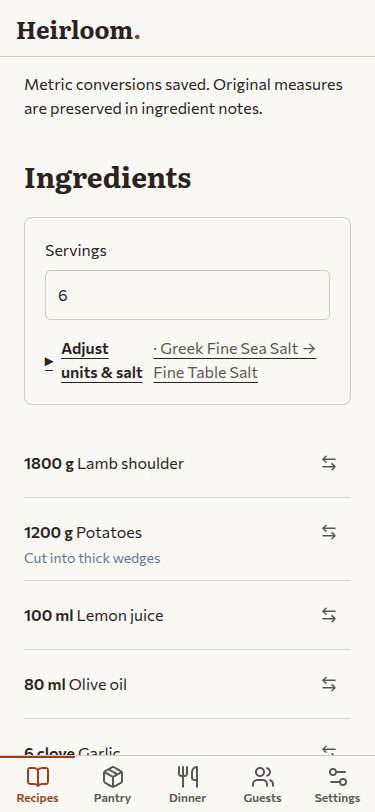
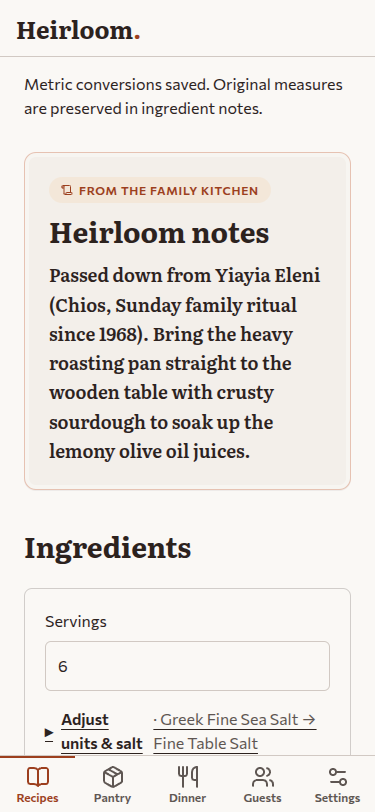
feat(ui): human-first experience for living cookbook, dinner party conductor, and kitchen mode

diff --git a/server/db/starter-recipes.ts b/server/db/starter-recipes.ts
@@ -6,7 +6,7 @@ export const starterRecipes: RecipeInput[] = [
     title: 'Arni me Patates', recipeType: 'food', cuisine: 'Greek', sourceType: 'manual',
     description: 'Main · Sunday lamb shoulder with lemon, oregano and potatoes roasted in the pan juices.',
     servings: 6, prepTimeMinutes: 25, cookTimeMinutes: 180, difficulty: 'easy', originalSaltType: 'greek_fine_sea_salt',
-    heirloomNotes: 'A shared Sunday roast. Bring the roasting pan to the table and pass bread for the lemony juices.',
+    heirloomNotes: 'Passed down from Yiayia Eleni (Chios, Sunday family ritual since 1968). Bring the heavy roasting pan straight to the wooden table with crusty sourdough to soak up the lemony olive oil juices.',
     storageReheating: 'Refrigerate leftovers promptly in shallow containers; reheat covered with a splash of water.',
     ingredients: [
       { name: 'Lamb shoulder', amount: 1800, unit: 'g', category: 'meat' },
@@ -27,7 +27,7 @@ export const starterRecipes: RecipeInput[] = [
     title: 'Traditional Spanakopita', recipeType: 'baking', cuisine: 'Greek', sourceType: 'manual',
     description: 'Appetizer · Hand-rolled phyllo filled with spinach, leeks, dill and barrel-aged feta.',
     servings: 8, prepTimeMinutes: 75, cookTimeMinutes: 50, difficulty: 'advanced', originalSaltType: 'greek_fine_sea_salt',
-    heirloomNotes: 'Advance prep: cook and cool the greens a day ahead, then refrigerate. Make the dough ahead and keep covered; assemble just before baking for a crisp base.',
+    heirloomNotes: 'Handwritten on a flour-dusted index card in 1974. The secret is rolling the phyllo paper-thin with olive oil and wild mountain greens. Squeeze the greens completely dry so the bottom stays crisp as glass.',
     storageReheating: 'Refrigerate cooled slices and reheat uncovered in an oven to restore crispness.',
     ingredients: [
       { name: 'Spinach', amount: 1000, unit: 'g', category: 'produce' }, { name: 'Barrel-aged feta', amount: 300, unit: 'g', category: 'dairy' },
@@ -48,7 +48,7 @@ export const starterRecipes: RecipeInput[] = [
     title: 'Santorini Fava', recipeType: 'food', cuisine: 'Greek', sourceType: 'manual',
     description: 'Side · Silky yellow split-pea purée with red onion, capers and a generous finish of olive oil.',
     servings: 6, prepTimeMinutes: 10, cookTimeMinutes: 50, difficulty: 'easy', originalSaltType: 'greek_fine_sea_salt',
-    heirloomNotes: 'Use Santorini yellow split peas when available. Greek fava names the purée, not broad beans. Serve warm or at room temperature as part of a meze table.',
+    heirloomNotes: 'From the volcanic terraces of Santorini. Not broad beans, but yellow split peas simmered until they collapse into velvety silk. Serve lukewarm with sweet red onion and capers on a warm summer evening.',
     storageReheating: 'Refrigerate promptly. Loosen with hot water when reheating; the purée thickens as it cools.',
     ingredients: [
       { name: 'Yellow split peas', amount: 300, unit: 'g' }, { name: 'Red onions', amount: 200, unit: 'g', notes: 'Half for cooking, half finely sliced for serving' },
@@ -67,7 +67,7 @@ export const starterRecipes: RecipeInput[] = [
     title: 'Classic Fasolada', recipeType: 'food', cuisine: 'Greek', sourceType: 'manual',
     description: 'Main · White bean soup with celery, carrots, tomato passata and olive oil. Start the beans the night before.',
     servings: 6, prepTimeMinutes: 20, cookTimeMinutes: 100, totalTimeMinutes: 840, difficulty: 'easy', originalSaltType: 'greek_fine_sea_salt',
-    heirloomNotes: 'Overnight schedule: soak beans in plenty of cold water in the refrigerator for 12 hours. The following day allow about two hours for preparation and cooking; older beans may take longer.',
+    heirloomNotes: 'The national comfort dish of Greece, cooked every winter Monday in our family home. The beans must soak slowly overnight; take your time simmering until the olive oil emulsions form a rich, golden-rust broth.',
     storageReheating: 'Cool in shallow containers and refrigerate promptly. Reheat with extra water as the beans absorb broth.',
     ingredients: [
       { name: 'Dried white beans', amount: 500, unit: 'g' }, { name: 'Celery', amount: 150, unit: 'g' },
@@ -87,7 +87,7 @@ export const starterRecipes: RecipeInput[] = [
     title: 'Revani with Citrus Syrup', recipeType: 'dessert', cuisine: 'Greek', sourceType: 'manual',
     description: 'Dessert · Golden semolina and yogurt cake scented with orange, soaked with cooled citrus syrup.',
     servings: 12, prepTimeMinutes: 25, cookTimeMinutes: 40, difficulty: 'intermediate', originalSaltType: 'greek_fine_sea_salt',
-    heirloomNotes: 'Make the syrup first so it can cool while the cake bakes. Allow the soaked cake to rest for at least two hours before serving small squares.',
+    heirloomNotes: 'A celebration cake from Veroia, baked for name days and Sunday afternoons. Ladle the cool orange syrup slowly over the piping hot semolina cake and let it rest until every grain glistens.',
     storageReheating: 'Cover and refrigerate after cooling. Bring individual portions toward room temperature before serving.',
     ingredients: [
       { name: 'Fine semolina', amount: 200, unit: 'g', notes: 'Wheat semolina' }, { name: 'Wheat flour', amount: 100, unit: 'g' },

diff --git a/app/pages/meal-plan/index.vue b/app/pages/meal-plan/index.vue
@@ -367,7 +367,7 @@ async function conduct() {
           v-stable-action="state"
           :data-state="state"
           :aria-busy="busy"
-        >{{ label('Build the schedule', 'Conducting…') }}</button>
+        >{{ label('Plan our dinner', 'Planning our dinner…') }}</button>
       </div>
     </form>
     </template>
@@ -387,14 +387,18 @@ async function conduct() {
           </li>
         </ul>
       </section>
-      <section v-if="plan.bottlenecks.length" aria-label="Equipment conflicts" class="space-y-4">
-        <h2 class="text-2xl">Conductor insights &amp; workarounds</h2>
-        <article v-for="item in plan.bottlenecks" :key="item.type + item.start" role="alert" class="overflow-hidden rounded-xl border border-terracotta/40 bg-paper">
-          <header class="flex items-start gap-3 bg-terracotta/10 px-5 py-4">
-            <span class="inline-flex size-10 flex-none items-center justify-center rounded-full bg-paper text-terracotta-ink" aria-hidden="true"><UIcon :name="item.type === 'oven_temperature' ? 'i-lucide-heater' : 'i-lucide-flame'" class="size-5" /></span>
+      <details v-if="plan.bottlenecks.length" aria-label="Kitchen timing and equipment advisory" class="advisory group rounded-xl border border-sage/40 bg-paper-2 p-5">
+        <summary class="flex cursor-pointer select-none items-center justify-between gap-3 font-serif text-xl">
+          <span class="flex min-w-0 items-center gap-3"><UIcon name="i-lucide-lightbulb" class="size-5 flex-none text-sage-ink" aria-hidden="true" /><span>Kitchen timing &amp; equipment advisory<span class="block font-sans text-sm font-normal text-muted">{{ plan.bottlenecks.length }} friendly {{ plan.bottlenecks.length === 1 ? 'tip' : 'tips' }} to keep things calm — tap to read</span></span></span>
+          <UIcon name="i-lucide-chevron-down" class="size-5 flex-none transition-transform group-open:rotate-180 motion-reduce:transition-none" aria-hidden="true" />
+        </summary>
+        <div class="mt-5 space-y-4">
+        <article v-for="item in plan.bottlenecks" :key="item.type + item.start" class="overflow-hidden rounded-xl border border-sage/30 bg-paper">
+          <header class="flex items-start gap-3 bg-sage/10 px-5 py-4">
+            <span class="inline-flex size-10 flex-none items-center justify-center rounded-full bg-paper text-sage-ink" aria-hidden="true"><UIcon :name="item.type === 'oven_temperature' ? 'i-lucide-heater' : 'i-lucide-flame'" class="size-5" /></span>
             <div class="min-w-0">
-              <p class="meta-label font-semibold">Conductor insight</p>
-              <p class="font-semibold">{{ item.type === 'oven_temperature' ? 'Oven clash' : 'Burner overload' }} ·
+              <p class="meta-label font-semibold">Good to know</p>
+              <p class="font-semibold">{{ item.type === 'oven_temperature' ? 'Oven timing' : 'Burner timing' }} ·
                 <span class="num">{{ item.clock }}</span> ({{ item.label }})</p>
             </div>
           </header>
@@ -408,7 +412,8 @@ async function conduct() {
             </template>
           </div>
         </article>
-      </section>
+        </div>
+      </details>
       <p v-else role="status" class="row-panel">No oven or burner clashes with {{ ovens }}
         oven{{ ovens > 1 ? 's' : '' }} and {{ burners }} burners.</p>
       <ul v-if="plan.warnings.length" class="space-y-2">

diff --git a/app/pages/recipes/[id]/index.vue b/app/pages/recipes/[id]/index.vue
@@ -159,6 +159,12 @@ function saved(value: RecipeDetail) {
       </section>
       <p v-if="metricState === 'success'" role="status" class="mt-4">Metric conversions saved. Original measures are preserved in ingredient notes.</p>
       <img v-if="recipe.imageUrl" :src="recipe.imageUrl" :alt="recipe.title" class="mt-8 max-h-96 w-full object-cover">
+      <section v-if="notesText" class="keepsake-card mt-8" aria-labelledby="heirloom-notes-title">
+        <span class="keepsake-badge"><UIcon name="i-lucide-scroll" aria-hidden="true" />From the family kitchen</span>
+        <h2 id="heirloom-notes-title" class="mt-3 font-serif">Heirloom notes</h2>
+        <p id="heirloom-notes" class="mt-3 whitespace-pre-line break-words font-serif text-lg leading-relaxed" :class="{ 'line-clamp-4': notesLong && !notesOpen }">{{ notesText }}</p>
+        <button v-if="notesLong" type="button" class="text-action mt-2" :aria-expanded="notesOpen" aria-controls="heirloom-notes" @click="notesOpen = !notesOpen">{{ notesOpen ? 'Show less' : 'Read full notes' }}</button>
+      </section>
       <div class="grid gap-12 py-10 lg:grid-cols-[minmax(0,1fr)_minmax(0,1.6fr)]">
         <aside class="min-w-0">
           <h2>Ingredients</h2>
@@ -219,11 +225,6 @@ function saved(value: RecipeDetail) {
             </li>
           </ol>
           <p v-else class="mt-6">No steps recorded yet. Add your method with “Edit recipe”.</p>
-          <section v-if="notesText" class="mt-12 border-t-2 border-terracotta pt-6">
-            <h2 class="mt-3">Heirloom notes</h2>
-            <p id="heirloom-notes" class="mt-4 whitespace-pre-line break-words leading-relaxed" :class="{ 'line-clamp-4': notesLong && !notesOpen }">{{ notesText }}</p>
-            <button v-if="notesLong" type="button" class="text-action mt-2" :aria-expanded="notesOpen" aria-controls="heirloom-notes" @click="notesOpen = !notesOpen">{{ notesOpen ? 'Show less' : 'Read full notes' }}</button>
-          </section>
         </div>
       </div>
       <RecipeKeepsakes :recipe-id="id" />
@@ -232,6 +233,8 @@ function saved(value: RecipeDetail) {
 </template>
 
 <style scoped>
+.keepsake-card { border: 1px solid color-mix(in oklch, var(--color-terracotta) 30%, transparent); border-radius: .75rem; background: var(--color-paper-2); padding: 1.5rem; box-shadow: 0 1px 0 color-mix(in oklch, var(--color-ink) 6%, transparent), inset 0 0 0 4px color-mix(in oklch, var(--color-paper) 70%, transparent); }
+.keepsake-badge { display: inline-flex; align-items: center; gap: .375rem; border-radius: 999px; background: color-mix(in oklch, var(--color-terracotta) 12%, var(--color-paper)); padding: .25rem .75rem; font-size: .75rem; font-weight: 600; letter-spacing: .06em; text-transform: uppercase; color: var(--color-terracotta-ink); }
 /* One clear primary action; everything else is quieter or tucked into More. */
 .start-cooking { min-height: 52px; padding-inline: 1.75rem; font-size: 1rem; }
 

diff --git a/app/pages/recipes/index.vue b/app/pages/recipes/index.vue
@@ -3,6 +3,11 @@ import { refDebounced } from '@vueuse/core'
 import type { Recipe } from '../../../shared/types/recipe'
 
 useSeoMeta({ title: 'Your recipes — Heirloom' })
+
+function familyNote(notes?: string | null) {
+  const first = notes?.split('.')[0]?.trim()
+  return first ? '“' + first + '.”' : ''
+}
 const search = ref('')
 const delayedSearch = refDebounced(search, 250)
 const type = ref('')
@@ -56,9 +61,9 @@ async function loadStarters() {
       <p class="mt-4">{{ search || type || favorites ? 'Try another search or clear your filters.' : 'Save a family favourite, a weekend bake, or your signature drink.' }}</p>
       <button v-if="search || type || favorites" class="button-secondary mt-6" @click="search = ''; type = ''; favorites = false">Clear filters</button>
       <div v-else class="mt-6 flex flex-wrap gap-3">
-        <button v-stable-action type="button" class="button-primary starter-button inline-flex items-center" :data-state="seedFeedback.state.value" :disabled="seeding" :aria-busy="seeding" @click="loadStarters">
-          <UIcon name="i-lucide-sprout" class="size-5" aria-hidden="true" />
-          {{ seedFeedback.label('Load Starter Heirloom Recipes', 'Loading recipes…') }}
+        <button v-stable-action type="button" class="button-primary starter-button inline-flex items-center" aria-label="Load Starter Heirloom Recipes — Fill your cookbook with family classics" :data-state="seedFeedback.state.value" :disabled="seeding" :aria-busy="seeding" @click="loadStarters">
+          <UIcon name="i-lucide-book-heart" class="size-5" aria-hidden="true" />
+          {{ seedFeedback.label('Fill your cookbook with family classics', 'Loading family classics…') }}
         </button>
         <NuxtLink to="/recipes/new" class="button-secondary">Write your first recipe</NuxtLink>
       </div>
@@ -77,6 +82,7 @@ async function loadStarters() {
           <p class="meta-label">{{ recipe.recipeType }} <UIcon v-if="recipe.isFavorite" name="i-lucide-heart" class="fill-current" aria-label="Favorite" /></p>
           <h2 class="mt-3 min-w-0 text-3xl"><NuxtLink :to="'/recipes/' + recipe.id" class="recipe-title-link" :title="recipe.title">{{ recipe.title }}</NuxtLink></h2>
         <p class="mt-3 line-clamp-2 break-words">{{ recipe.description }}</p>
+        <p v-if="familyNote(recipe.heirloomNotes)" class="mt-2 line-clamp-1 break-words font-serif italic text-muted">{{ familyNote(recipe.heirloomNotes) }}</p>
         <p class="mt-5 text-sm">{{ recipe.totalTimeMinutes }} min · {{ recipe.servings }} servings · {{ recipe.difficulty }}</p>
       </article>
     </div>

diff --git a/scripts/e2e-user-flows.js b/scripts/e2e-user-flows.js
@@ -362,7 +362,7 @@ async function journey(browser, viewport) {
       await page.getByLabel('Guests sit down').fill('20:00')
       await page.getByLabel('Guests (optional)').fill('6')
       await page.getByLabel('Month').selectOption('1')
-      await tap(page.getByRole('button', { name: 'Build the schedule' }))
+      await tap(page.getByRole('button', { name: 'Plan our dinner' }))
       await page.getByRole('heading', { name: 'The timeline' }).waitFor()
       const briefing = page.getByRole('region', { name: 'Dinner at 20:00' })
       assert((await briefing.innerText()).includes('Guests sit down at 20:00.'), "Step 3 should open with the Chef's Briefing")
@@ -371,7 +371,7 @@ async function journey(browser, viewport) {
       const serves = await page.locator('ol li p.font-serif').allInnerTexts()
       assert(serves.some(text => text.includes('20:00')) && serves.some(text => text.includes('20:25')) && serves.some(text => text.includes('21:00')),
         'Courses should be served at 20:00, 20:25 and 21:00')
-      const conflicts = page.getByRole('region', { name: 'Equipment conflicts' })
+      const conflicts = page.locator('details.advisory', { hasText: 'Kitchen timing & equipment advisory' })
       const clear = page.getByText(/No oven or burner clashes/)
       assert((await conflicts.count()) + (await clear.count()) === 1, 'Schedule should report either conflicts or an all-clear')
       await shot(page, viewport, 'conductor-schedule', page.getByRole('heading', { name: 'The timeline' }))

diff --git a/scripts/market-browser-checks.js b/scripts/market-browser-checks.js
@@ -34,7 +34,7 @@ async (page) => {
       if (await view.getByRole('button', { name: 'Generate Market Shopping List' }).count()) throw Error('Shopping action shown before schedule')
       await view.getByLabel('Recipe for course 2', { exact: true }).selectOption(recipeId)
       await view.getByLabel('Guests (optional)', { exact: true }).fill('6')
-      await view.getByRole('button', { name: 'Build the schedule', exact: true }).click()
+      await view.getByRole('button', { name: 'Plan our dinner', exact: true }).click()
       const market = view.getByRole('region', { name: 'Market shopping list', exact: true })
       await market.waitFor()
       const requestPromise = view.waitForRequest(request => request.url().endsWith('/api/grocery/generate') && request.method() === 'POST')
@@ -79,7 +79,7 @@ async (page) => {
       if (issues.length) throw Error(issues.join(', '))
       await view.getByLabel('Guests (optional)', { exact: true }).fill('8')
       await market.waitFor({ state: 'detached' })
-      await view.getByRole('button', { name: 'Build the schedule', exact: true }).click()
+      await view.getByRole('button', { name: 'Plan our dinner', exact: true }).click()
       await market.waitFor()
       if (await market.getByRole('checkbox').count()) throw Error('Old shopping list survived input change')
       results.push({ width, scaledServings: 6, destinations: 4, checkAndUncheck: true, clipboard: true, invalidation: true })

diff --git a/app/components/RescueDrawer.vue b/app/components/RescueDrawer.vue
@@ -70,12 +70,14 @@ onBeforeUnmount(() => controller?.abort())
   <ClientOnly>
     <Teleport to="#kitchen-rescue-dock">
       <button class="rescue-trigger" aria-label="Rescue My Dish" @click="show">
-        <UIcon name="i-lucide-siren" aria-hidden="true" />Rescue</button></Teleport>
+        <UIcon name="i-lucide-life-buoy" aria-hidden="true" />Rescue</button></Teleport>
     </ClientOnly>
   <dialog ref="dialog" class="rescue-drawer" aria-label="Rescue My Dish" @close="close">
     <form method="dialog"><button class="kitchen-button float-right" autofocus>Close</button></form>
 
     <h2 class="clear-both pt-5 text-3xl">Rescue My Dish</h2>
+
+    <p class="mt-3 font-serif text-lg italic">Don’t worry — almost every kitchen mishap can be saved. We’re right here with you.</p>
 
     <p class="mt-3 text-base">Quick guides work instantly, without a key or network request.</p>
 

diff --git a/scripts/customization-browser-checks.js b/scripts/customization-browser-checks.js
@@ -61,7 +61,7 @@ async (page) => {
 
       await view.goto('http://127.0.0.1:3115/meal-plan')
       await view.getByLabel('Recipe for course 2', { exact: true }).selectOption(recipe.id)
-      await view.getByRole('button', { name: 'Build the schedule', exact: true }).click()
+      await view.getByRole('button', { name: 'Plan our dinner', exact: true }).click()
       const market = view.getByRole('region', { name: 'Market shopping list', exact: true })
       await market.getByRole('button', { name: 'Generate Market Shopping List', exact: true }).click()
       const select = market.getByLabel('Destination for Feta', { exact: true })
